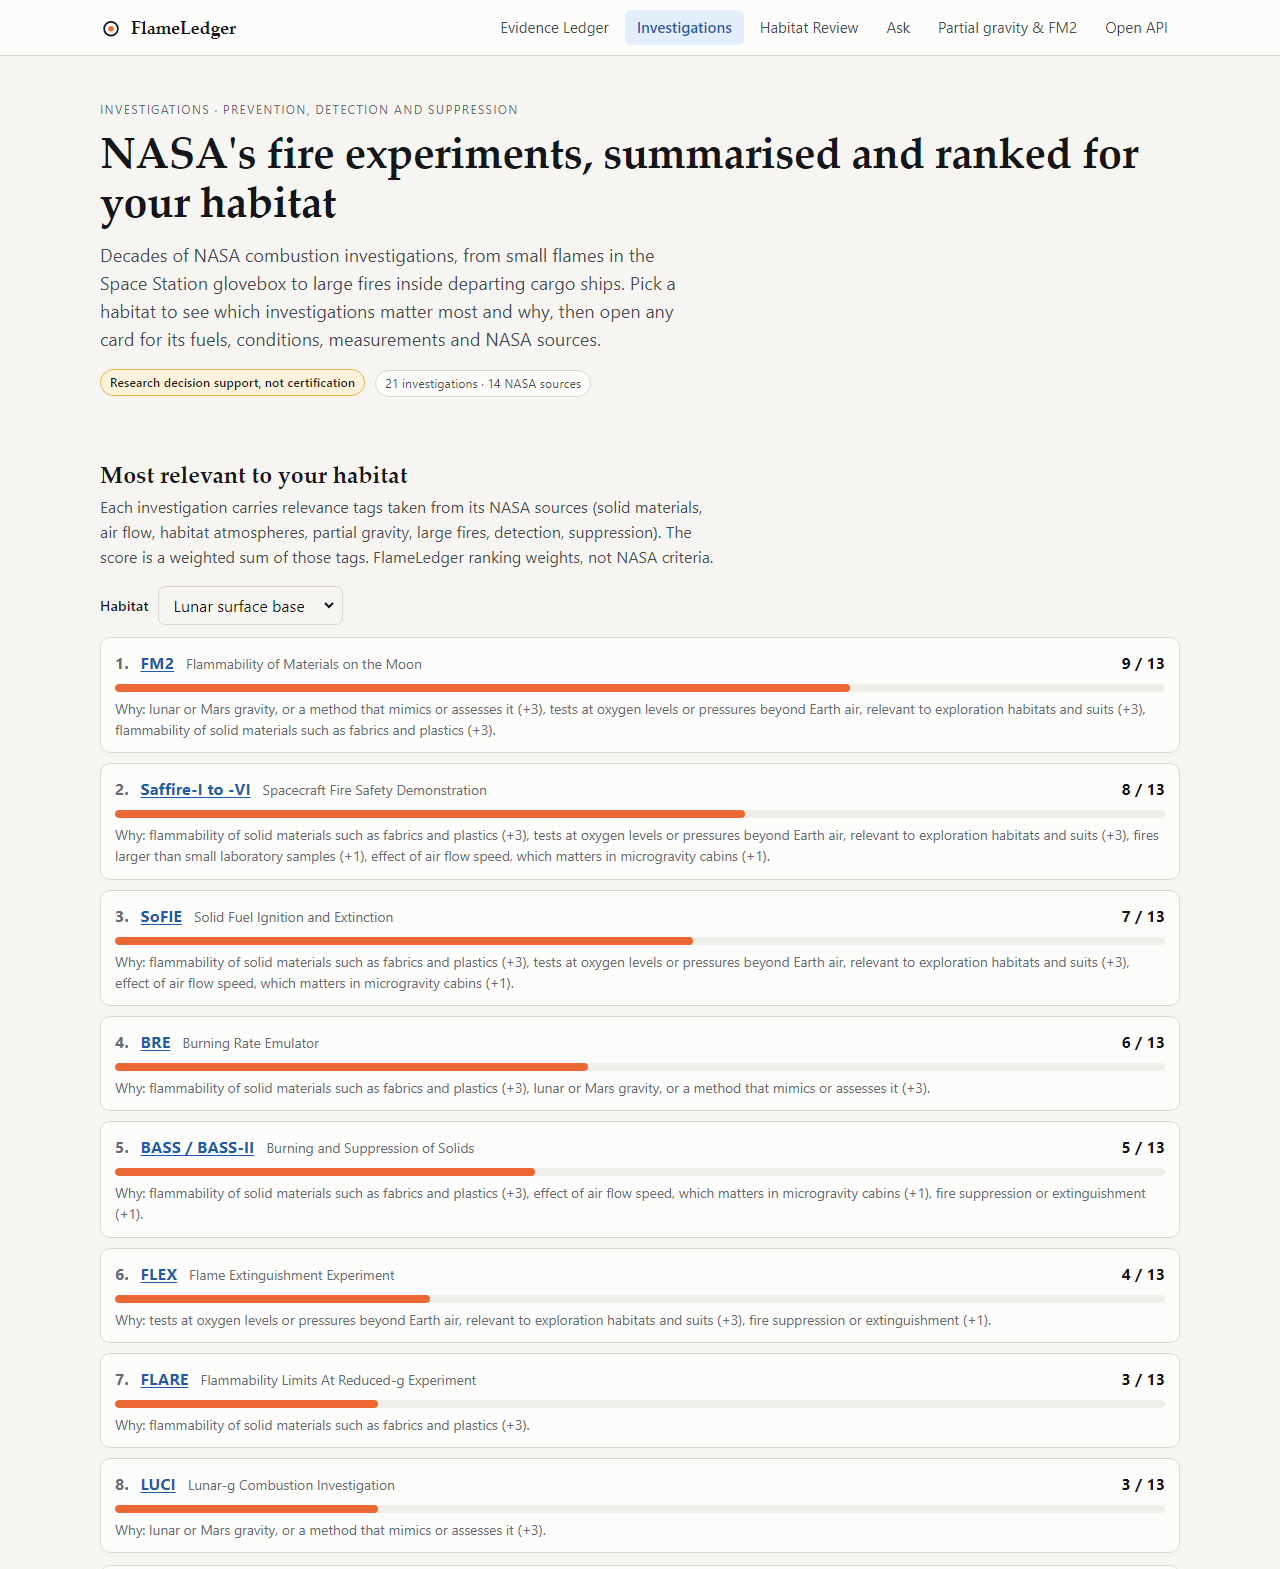
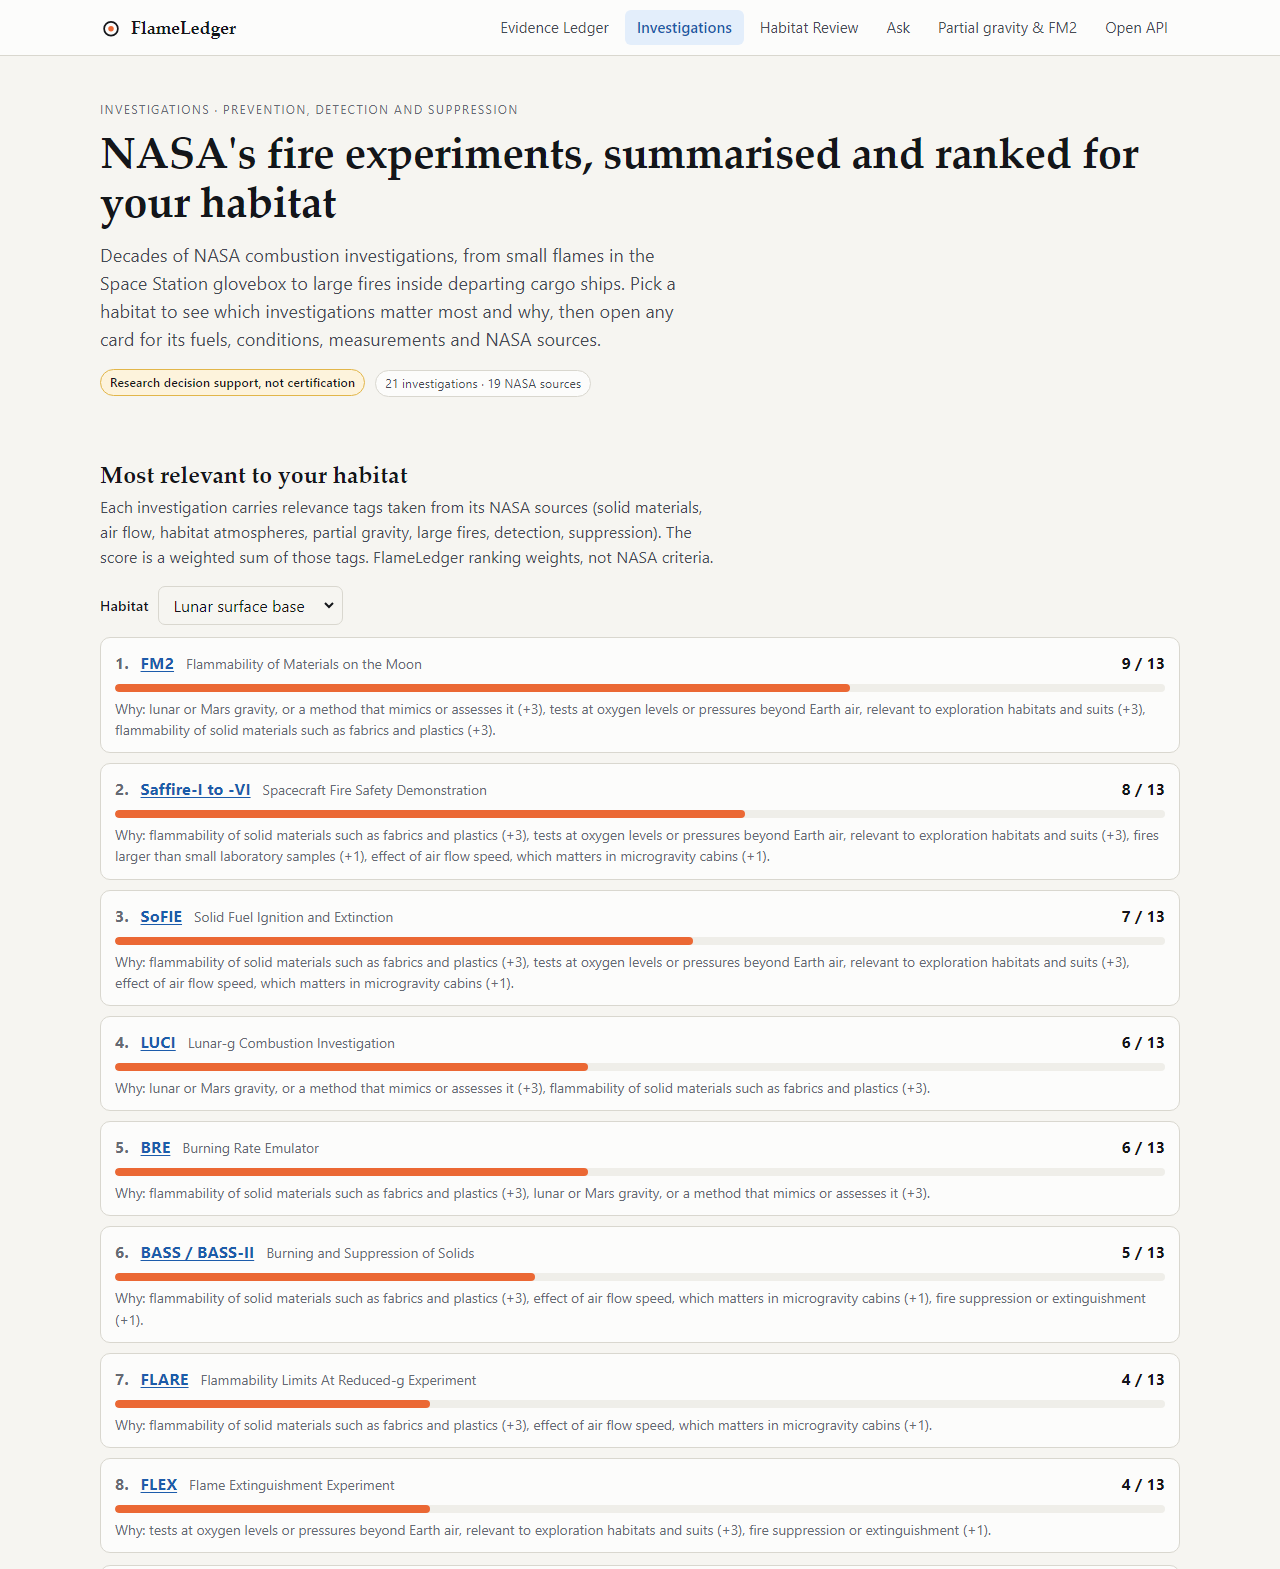
data: LUCI, FLARE and SAME-R summarised from their NASA sources
- LUCI: NTRS 20250010653 and NASA Glenn article (New Shepard flight 4 Feb 2025,
  simulated lunar gravity at 11 rpm, SIBAL fabric and PMMA rod, preliminary results)
- FLARE: NASA Glenn FLARE page (JAXA Kibo, Solid Combustion hardware, Damkohler number)
- SAME-R: NTRS 20130000422 (Expedition 24, five spacecraft materials, 200-400 nm smoke)
- 'Not yet summarised' fields reduced from 29 to 14; audit section H

diff --git a/flameledger/rules.py b/flameledger/rules.py
@@ -47,11 +47,11 @@ _ALIAS_RE = [(mid, re.compile(r"(?<![a-z0-9])" + re.escape(a) + r"(?![a-z0-9])")
 # map a product onto a ledger entry and never give a value.
 HINTS: list[tuple[re.Pattern, str, list[str]]] = [
     (re.compile(r"(?<![a-z])kapton(?![a-z])", re.I),
-     "NASA's SAME experiment heated Kapton to study the smoke it makes, for smoke-detector design; that is not a "
-     "flammability limit. The ledger's polyimide (PI) entry is a different product, so its values do not apply.", ["same"]),
+     "NASA's SAME experiments heated Kapton to study the smoke it makes, for smoke-detector design; that is not a "
+     "flammability limit. The ledger's polyimide (PI) entry is a different product, so its values do not apply.", ["same", "same_r"]),
     (re.compile(r"(?<![a-z])(teflon|ptfe)(?![a-z])", re.I),
-     "NASA's SAME experiment heated Teflon to study its smoke (mostly particles under 1 micron), for smoke-detector "
-     "design; that is not a flammability limit.", ["same"]),
+     "NASA's SAME experiments heated Teflon to study its smoke (mostly particles under 1 micron), for smoke-detector "
+     "design; that is not a flammability limit.", ["same", "same_r"]),
     (re.compile(r"(?<![a-z])(paper|cellulose)(?![a-z])", re.I),
      "NASA's SAME experiment studied smoke from cellulose, and the BRE experiment emulated burning materials such as "
      "paper with a gas burner; neither gives a flammability limit for this habitat.", ["same", "bre"]),

diff --git a/tests/test_rules.py b/tests/test_rules.py
@@ -124,6 +124,6 @@ def test_only_published_margins_appear(engine):
 
 def test_unlisted_materials_get_sourced_hints_but_no_values(engine):
     kapton = one(engine, "Kapton tape", LUNAR)
-    assert kapton["material_id"] is None and kapton["hint"]["investigation_ids"] == ["same"]
+    assert kapton["material_id"] is None and kapton["hint"]["investigation_ids"] == ["same", "same_r"]
     assert "not a flammability limit" in kapton["headline"]["reason"] and "%" not in kapton["headline"]["reason"]
     assert one(engine, "Velcro", LUNAR).get("hint") is None

diff --git a/docs/CHALLENGE_COVERAGE.md b/docs/CHALLENGE_COVERAGE.md
@@ -34,7 +34,7 @@ The challenge asks for an SI-powered web dashboard that *"summarizes, ranks, and
 | Oxygen tested versus planned atmospheres | Oxygen coverage map on `/investigations`: each investigation's sourced oxygen range against the ISS, Moon base, lunar habitat and spacesuit atmospheres; the caption is computed from the data |
 | Spacesuits and oxygen concentration (100% O2 at 4.3 psi; Moon base ≥30% O2 at ≤10.2 psi) | Habitat Review presets for EVA suits, the Moon base from the challenge brief, NASA's lunar habitat (34% O2, 8.2 psia) and the four FM2 test atmospheres |
 | Highest-oxygen microgravity tests (CFI-G, up to 85% O2) | CFI-G card, tagged "habitat atmosphere" |
-| Partial-gravity data (LUCI, FM2, E-FIELD) | LUCI, FM2 and E-FIELD cards tagged "partial gravity"; the FM2 page; drop-tower lunar and Mars limits in the ledger |
+| Partial-gravity data (LUCI, FM2, E-FIELD) | LUCI (flown Feb 2025 on a spinning New Shepard capsule), FM2 and E-FIELD cards tagged "partial gravity"; the FM2 page; drop-tower lunar and Mars limits in the ledger |
 | The challenge brief suggests (paraphrased) that microgravity and normal-gravity results may span intermediate gravity levels | We show what NASA's own drop-tower data adds: for all three materials tested at four gravity levels, the lunar limit was below both the 0g and the 1g limit (NTRS 20130010991, Table I). This is a short-duration ground-test result, and FM2 will give the first long-duration lunar data. |
 
 ## 3. Gaps we found in our first version, and how we closed them
@@ -68,6 +68,6 @@ Every quote was checked word for word against the source text (see `docs/EVIDENC
 ## 5. Still open (honest limits)
 
 - **PSI data files are not parsed.** We link each investigation to a NASA PSI search, but summaries come from NASA's fact sheets and guide, not from the raw PSI datasets.
-- **Some fields say "Not yet summarised"** (for example LUCI, SAME-R and FLARE details) where our sources didn't give the information. We don't guess.
+- **A few fields still say "Not yet summarised"** (14 of 105 detail fields, mostly for the ACME gas-flame experiments and CFI) where our sources didn't give the information. We don't guess. LUCI, FLARE and SAME-R were filled from their own NASA sources.
 - **Ranking weights are our own research settings**, shown openly and labelled "not NASA criteria".
 - **Ask** answers only from the catalogue and ledger. Questions outside them get a plain "not covered" plus the closest evidence.

diff --git a/docs/EVIDENCE_AUDIT.md b/docs/EVIDENCE_AUDIT.md
@@ -86,3 +86,10 @@ Rules applied:
 - **Challenge-brief presets:** iss_cabin (21% O2, 14.7 psia) and moon_base_brief (30% O2, 10.2 psia) come from the NASA Space Apps 2026 challenge page ("30% or greater, with a corresponding pressure of 10.2 psi or less"). They are not NTRS values.
 - **"Bracketing":** the finding that 0g and 1g did not bracket lunar gravity is limited everywhere to Mylar G, Ultem 1000 and Nomex HT90-40 under drop-tower criteria (NTRS 20130010991, Table I).
 - **Flow sketch on /fm2:** now cites the NASA ISS combustion Researcher's Guide, p.18, Fig. 8 ("region of enhanced flammability in the low-convective flow range"). The sketch is labelled conceptual.
+
+## H. LUCI, FLARE and SAME-R filled from NASA sources, 15 Nov 2026, 17:10 IST
+
+- **LUCI:** NTRS 20250010653 (Ferkul et al., ASGSR 2025), PDF pp.1-2, 10, 12-13, 16-22, and the NASA Glenn article "NASA Fire Safety Test Took on Reduced Gravity" (12 Feb 2025). It flew on 4 Feb 2025 at 11 rpm (radius 1.22 m), with a SIBAL fabric and a 4 mm PMMA rod in air at normal pressure, for over two and a half minutes. Preliminary values: flame-base spread 0.92 mm/s (SIBAL, p.19); flame-tip spread 1.5 mm/s (PMMA, p.21); chamber O2 fell from 20% to 14.3% (p.22). These are not added to the ledger as flammability limits; no limit value is published there.
+- **FLARE:** NASA Glenn FLARE page. Ground 1g and parabolic tests, then Kibo flights expected in 2017 or later; JAXA "Solid Combustion" hardware; a critical Damkohler number; a proposed new standard screening test method; JAXA, NASA and ESA with universities in Japan, the USA and France. (The Combustion Science overview page also names CNES and DLR.)
+- **SAME-R (SAME-2):** NTRS 20130000422 (AIAA 2012-3536), pp.1-2 and 4. Expedition 24, July-September 2010; Teflon, Kapton, cotton, silicone rubber and Pyrell heated below ignition; flow from quiescent to 8 cm/s; smoke aged 11 to 1800 s; most average particle sizes 200-400 nm; installed in the MSG.
+- Quotes from both PDFs were matched word for word against the extracted text.

diff --git a/docs/SUBMISSION.md b/docs/SUBMISSION.md
@@ -45,7 +45,7 @@ Live app: https://flameledger.onrender.com · Code: https://github.com/Kiruthiga
 - NTRS 20260001966: Ferkul et al., Flammability of Materials on the Moon (FM2), LPSC 2026 presentation. https://ntrs.nasa.gov/citations/20260001966
 
 ### Space Agency Partner & Other Data
-We use no partner-agency datasets directly. The investigation catalogue notes that NASA Glenn lists FLARE (Flammability Limits At Reduced-g Experiment) as an international team that includes JAXA, ESA, CNES and DLR. Habitat presets for the ISS cabin, spacesuit and Moon base come from the NASA Space Apps 2026 *Flame in Freefall* challenge brief. A Saffire preliminary-results paper was considered but is held back, because its only available copy requires a login.
+We use no partner-agency datasets directly. The investigation catalogue includes FLARE (Flammability Limits At Reduced-g Experiment), which NASA Glenn describes as an international team including JAXA, NASA and ESA, flying on JAXA's Kibo module with JAXA's 'Solid Combustion' hardware. Habitat presets for the ISS cabin, spacesuit and Moon base come from the NASA Space Apps 2026 *Flame in Freefall* challenge brief. A Saffire preliminary-results paper was considered but is held back, because its only available copy requires a login.
 
 ### References
 - All NASA documents listed under NASA Data.
